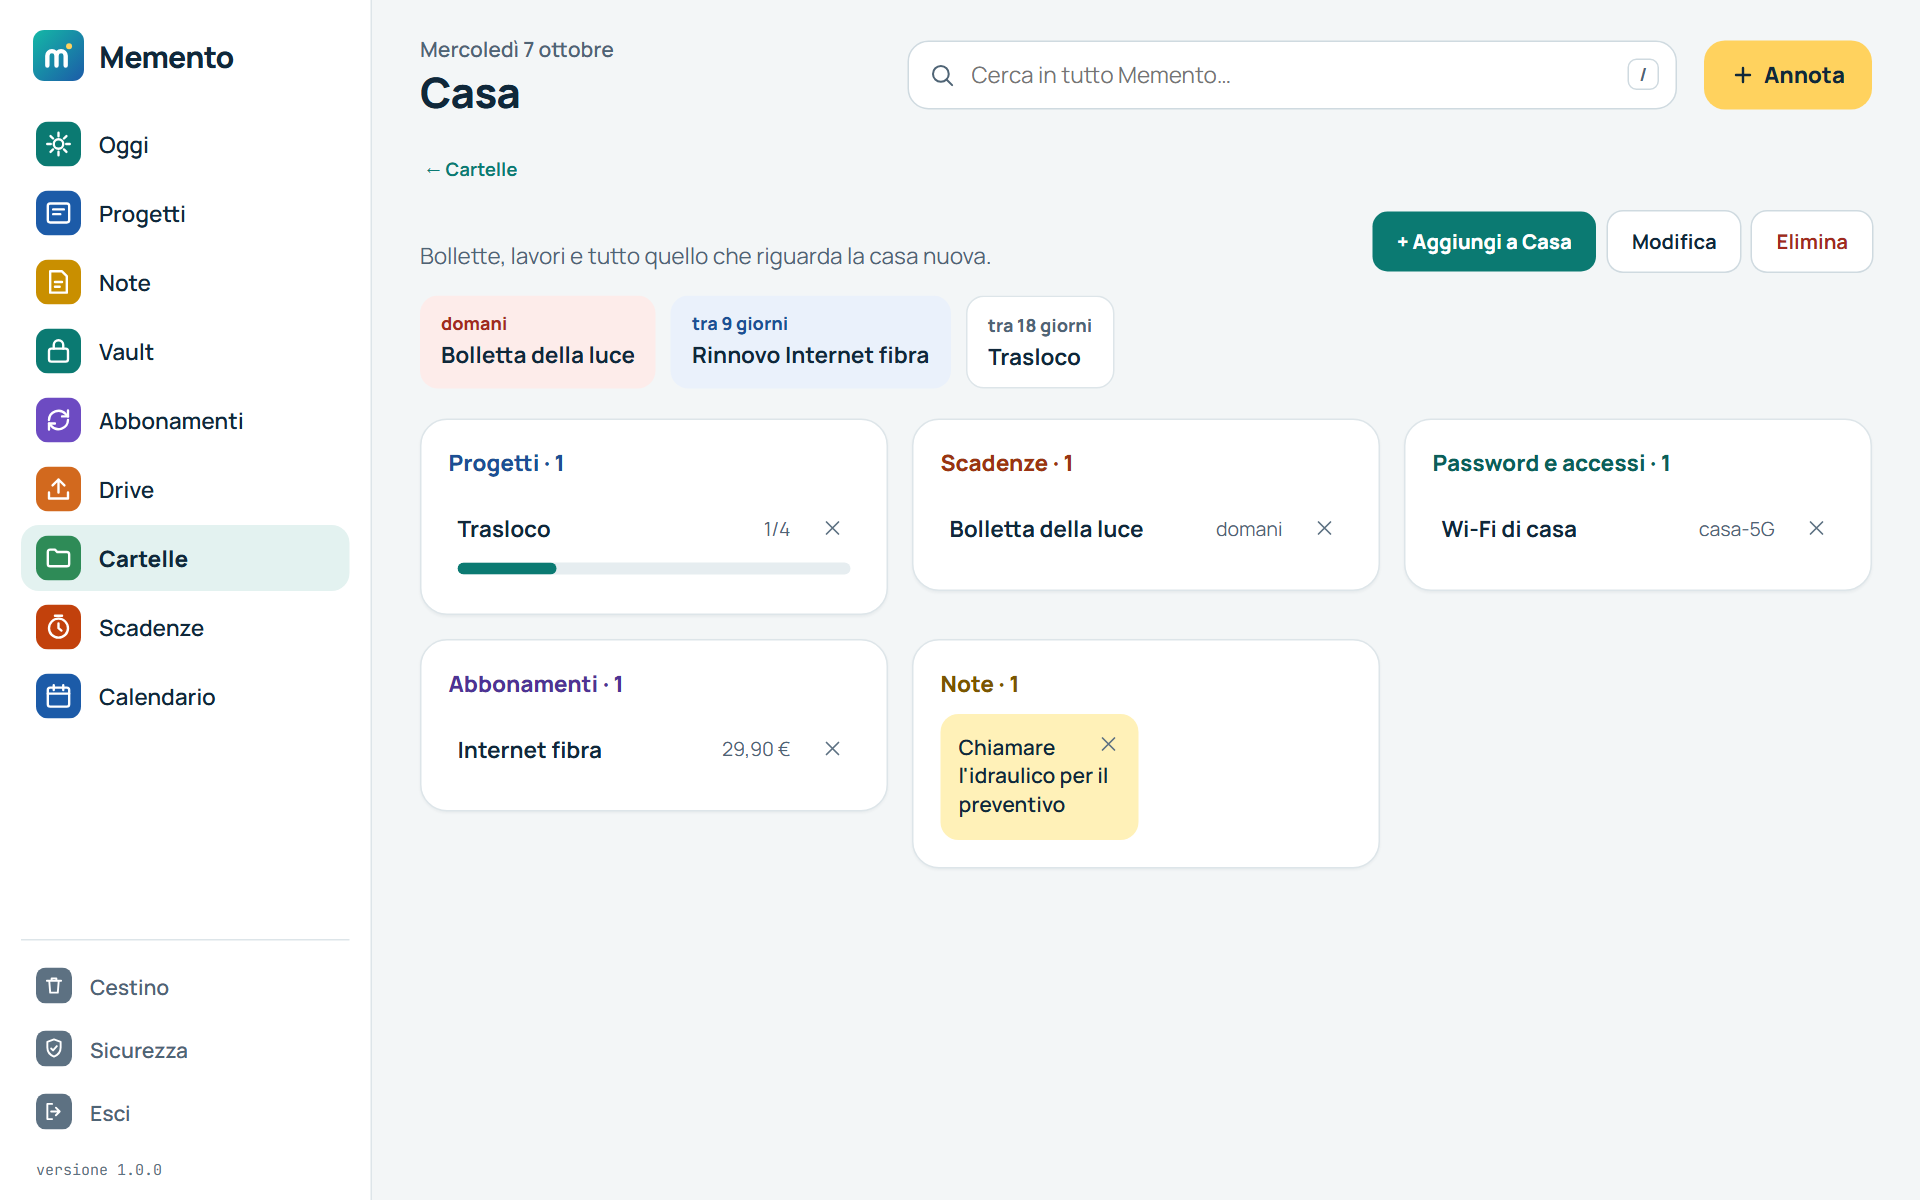
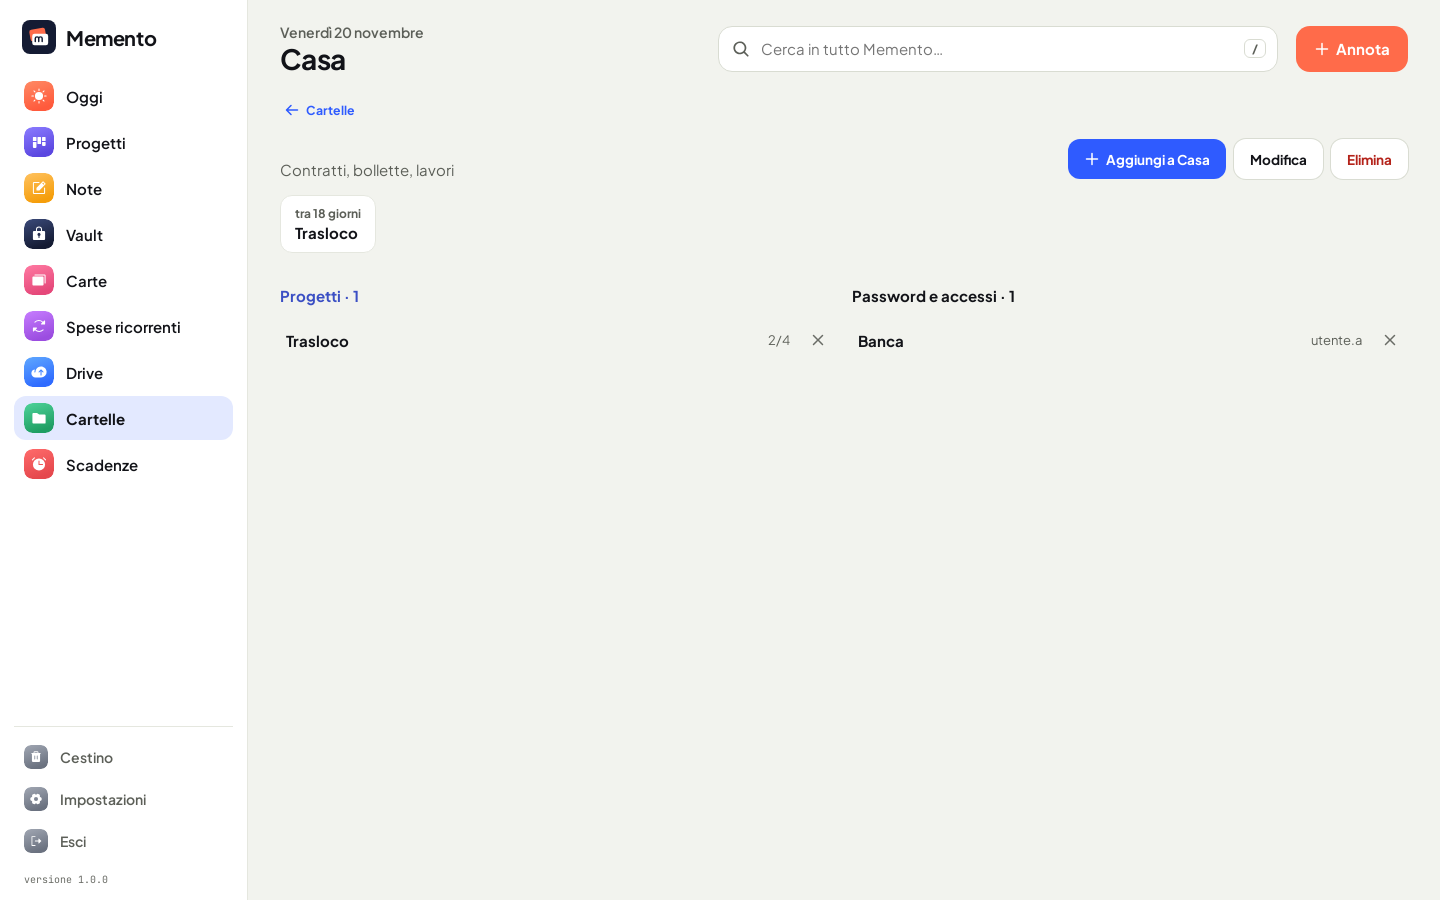
README e screenshot aggiornati; in Oggi le rate dei finanziamenti
- README: due modi d'uso (server Docker e app Android), nuove sezioni
  (Carte, Spese ricorrenti con finanziamenti, Vault a quattro tipi,
  Impostazioni), app Android con aggiornamenti, backup sul server di
  casa e file cifrato; Sicurezza diventa Impostazioni.
- Screenshot rifatti con dati di esempio generici (telefono chiaro e
  scuro, computer); carte senza loghi di negozi.
- Oggi e cartelle mostrano "Rata Auto" invece di "Rinnovo Auto" per un
  finanziamento.

diff --git a/public/app.js b/public/app.js
@@ -1494,7 +1494,7 @@
       if (days === null) return;
       const amount = a.amount ? ` · ${fmtMoney(a.amount)}` : '';
       const iso = next instanceof Date ? `${next.getFullYear()}-${String(next.getMonth() + 1).padStart(2, '0')}-${String(next.getDate()).padStart(2, '0')}` : String(next);
-      deadlines.push({ kind: 'account', item: a, days, date: iso, title: tr('today_renewal_of', { name: a.service }), sub: tr('type_account') + amount });
+      deadlines.push({ kind: 'account', item: a, days, date: iso, title: tr(loanInfo(a) ? 'loan_installment_of' : 'today_renewal_of', { name: a.service }), sub: tr(loanInfo(a) ? 'account_type_loan' : 'type_account') + amount });
     });
     if (!isHidden('drive')) docs.filter((d) => d.expiry_date).forEach((d) => {
       const days = calendarDaysFromToday(d.expiry_date);
@@ -4141,7 +4141,7 @@
       mine.project.filter((p) => p.deadline && p.status !== 'fatto').forEach((p) => due.push({ days: calendarDaysFromToday(p.deadline), title: p.title, open: () => render('projects', { only: p.id, fromDossier: d.id }) }));
       mine.account.forEach((a) => {
         const next = nextChargeDate(a) || (!loanInfo(a) && a.renewal_date);
-        if (next) due.push({ days: calendarDaysFromToday(next), title: tr('today_renewal_of', { name: a.service }), open: () => render('accounts', { only: a.id, fromDossier: d.id }) });
+        if (next) due.push({ days: calendarDaysFromToday(next), title: tr(loanInfo(a) ? 'loan_installment_of' : 'today_renewal_of', { name: a.service }), open: () => render('accounts', { only: a.id, fromDossier: d.id }) });
       });
       mine.document.filter((x) => x.expiry_date).forEach((x) => due.push({ days: calendarDaysFromToday(x.expiry_date), title: x.display_name || x.original_name, open: () => openDocumentPreview(x) }));
       const dueSorted = due.filter((x) => x.days !== null).sort((a, b) => a.days - b.days);

diff --git a/public/i18n.js b/public/i18n.js
@@ -434,6 +434,7 @@ window.MementoI18n = (() => {
       loan_residual: 'Da pagare',
       loan_end: 'Ultima rata',
       loan_done: 'Concluso',
+      loan_installment_of: 'Rata {name}',
       loan_row: 'Pagate {n}/{total}',
       loan_row_residual: 'restano {amount}',
       field_email: 'Email',
@@ -1009,6 +1010,7 @@ window.MementoI18n = (() => {
       loan_residual: 'Left to pay',
       loan_end: 'Last installment',
       loan_done: 'Paid off',
+      loan_installment_of: '{name} installment',
       loan_row: 'Paid {n}/{total}',
       loan_row_residual: '{amount} left',
       field_email: 'Email',

diff --git a/README.md b/README.md
@@ -1,48 +1,64 @@
 <p align="center"><img src="brand/logo-1024.png" alt="Memento" width="420"></p>
 
-Spazio personale self-hosted per idee, progetti, password, abbonamenti e documenti, con **cartelle** che li collegano tra loro. Gira interamente sul tuo computer o server, dentro Docker: nessun dato lascia la tua macchina.
+Spazio personale per idee, progetti, password, carte fedeltà, spese ricorrenti e documenti, con **cartelle** che li collegano tra loro. Si usa in due modi, anche insieme:
 
-Gratuito e open source (licenza MIT). Pagina del progetto: **[phloppy.it/memento](https://www.phloppy.it/memento)**.
+- **sul tuo server**, dentro Docker (computer di casa, NAS, CasaOS): nessun dato lascia la tua macchina;
+- con l'**app Android**, collegata al server oppure con i dati **solo sul telefono**, cifrati, senza bisogno di un server.
+
+Gratuito e open source (licenza MIT). APK nelle **[Release](https://github.com/katergaris/Memento/releases)**.
 
 ## Come si presenta
 
-**Oggi** — cosa scade, i progetti in corso con le spunte toccabili sul posto, le note recenti e le cartelle:
+**Sul telefono** — Oggi, il pannello con tutte le sezioni, le carte fedeltà e la pagina di una carta (numero nascosto finché non tocchi l'occhio):
+
+<p>
+  <img src="docs/screenshots/telefono-oggi.png" alt="Oggi sul telefono" width="200">
+  <img src="docs/screenshots/telefono-altro.png" alt="Tutte le sezioni" width="200">
+  <img src="docs/screenshots/telefono-carte.png" alt="Carte fedeltà e regalo" width="200">
+  <img src="docs/screenshots/telefono-carta.png" alt="La pagina di una carta" width="200">
+</p>
+
+Vault con account, appunti protetti, codici 2FA e carte di pagamento; spese ricorrenti con i finanziamenti (rate pagate e quota da pagare); "Annota al volo" con `#tag` e `@cartella`:
+
+<p>
+  <img src="docs/screenshots/telefono-vault.png" alt="Vault" width="200">
+  <img src="docs/screenshots/telefono-spese.png" alt="Spese ricorrenti" width="200">
+  <img src="docs/screenshots/telefono-annota.png" alt="Annota al volo" width="200">
+</p>
+
+Tema chiaro e scuro, automatico come il telefono:
+
+<p>
+  <img src="docs/screenshots/telefono-oggi-scuro.png" alt="Oggi con il tema scuro" width="200">
+  <img src="docs/screenshots/telefono-carte-scuro.png" alt="Carte con il tema scuro" width="200">
+</p>
+
+**Su computer** — Oggi, una cartella con tutto quello che riguarda un tema, il Vault e le spese ricorrenti:
 
 ![La schermata Oggi su computer](docs/screenshots/desktop-oggi.png)
 
-**Una cartella** — tutto quello che riguarda un tema, diviso per tipo, con le sue scadenze in cima:
-
 ![La pagina di una cartella](docs/screenshots/desktop-cartella.png)
 
-**Progetti** — stato, scadenza e avanzamento visibili senza aprirli:
+![Il Vault](docs/screenshots/desktop-vault.png)
 
-![L'elenco dei progetti](docs/screenshots/desktop-progetti.png)
-
-**Sul telefono** — la schermata Oggi, "Annota al volo" che si apre dove lo tocchi (con i suggerimenti per `#tag` e `@cartella`), tutte le sezioni a un tocco:
-
-<p>
-  <img src="docs/screenshots/telefono-oggi.png" alt="Oggi sul telefono" width="260">
-  <img src="docs/screenshots/telefono-annota.png" alt="Annota al volo sul telefono" width="260">
-  <img src="docs/screenshots/telefono-sezioni.png" alt="Tutte le sezioni sul telefono" width="260">
-</p>
+![Le spese ricorrenti](docs/screenshots/desktop-spese.png)
 
 <sub>Dati di esempio.</sub>
 
 ## Cosa contiene
 
-- **Oggi** — la schermata d'ingresso: tutto quello che scade (promemoria, progetti, rinnovi, documenti) scritto come "domani", "tra 12 giorni", i progetti in corso con le spunte toccabili sul posto, le note recenti e le cartelle
+- **Oggi** — tutto quello che scade (scadenze, progetti, addebiti, rate, documenti) scritto come "domani", "tra 12 giorni", con le spunte toccabili sul posto, i progetti in corso, le note recenti e le cartelle
 - **Note** — libere, con tag, `#hashtag` e checklist spuntabile
-- **Cattura veloce** — "Annota" è sempre a un tocco (in alto su computer, il "+" giallo su telefono); `@` collega a una cartella, `#` aggiunge un tag, il pulsante "…" trasforma la nota in promemoria/progetto al momento del salvataggio
-- **Progetti** — stato (da fare / in corso / fatto), checklist, scadenza, persone/contatti e budget; ogni progetto è una scheda con avanzamento e scadenza visibili senza aprirla
-- **Vault password** — voci cifrate (AES-256-GCM), con **import da CSV**
-- **Abbonamenti** — account digitali o abbonamenti cartacei/fisici, con campi propri per ciascuno e data di rinnovo
-- **Drive** — upload documenti, organizzati in cartelle, con nome personalizzato, anteprima (immagini e PDF) e scadenza opzionale
-- **Cartelle** — collegano insieme note, progetti, voci del vault, abbonamenti, documenti e scadenze sullo stesso tema; aprendo una cartella vedi tutto il suo contenuto diviso per tipo, con le sue scadenze in cima
-- **Scadenze e Calendario** — elenco piatto o vista mensile, con notifiche push opzionali (anche ad app chiusa) quando una scadenza arriva a termine
-- **Ricerca globale** — cerca in tutte le sezioni insieme
-- **Cestino** — eliminazione soft con possibilità di ripristino
-- **Backup** — esporta un file .zip con database e documenti caricati
-- **Italiano e inglese** — si sceglie al primo avvio, si cambia da Sicurezza
+- **Annota al volo** — sempre a un tocco ("Annota" su computer, il "+" su telefono); `@` collega a una cartella, `#` aggiunge un tag. Sul telefono, fuori da Oggi, il "+" crea una voce della sezione aperta (una carta, una voce del vault, una spesa…)
+- **Progetti** — stato (da fare / in corso / fatto), checklist, scadenza, persone/contatti e budget
+- **Vault** — quattro tipi di voce cifrata (AES-256-GCM): **Account** (utente, password, codice 2FA), **Appunti** (IBAN, PIN, combinazioni), **Codici** (2FA e codici di recupero), **Carte** di pagamento; generatore di password e **import da CSV**
+- **Carte** — tessere fedeltà e carte regalo come in un portafoglio: codice a barre o QR da mostrare alla cassa (con lo schermo al massimo), lettura con la fotocamera, foto della tessera, saldo e scadenza delle carte regalo, carte fissate in alto con la puntina, logo del negozio
+- **Spese ricorrenti** — abbonamenti digitali, spese fisiche e **finanziamenti**: totale mensile e prossimo addebito; per un finanziamento (numero di rate, rata, prima rata) rate pagate e mancanti, quota da pagare e ultima rata
+- **Drive** — documenti con nome personalizzato, anteprima (immagini e PDF) e scadenza opzionale
+- **Cartelle** — collegano note, progetti, voci del vault, spese, documenti e scadenze sullo stesso tema
+- **Scadenze e Calendario** — elenco o vista mensile, con notifiche (push dal server, locali nell'app)
+- **Ricerca globale**, **Cestino** con ripristino, **Backup**
+- **Impostazioni** — tema chiaro/scuro/automatico, sezioni visibili, tasti della barra in basso, verifica in due passaggi, impronta, lingua (italiano e inglese)
 
 ## Requisiti
 
@@ -97,7 +113,7 @@ docker compose up -d --build
 **Da terminale** (SSH o l'app "Terminale" di CasaOS): CasaOS è basato su Debian con Docker già installato, quindi vale la stessa procedura descritta in "Avvio rapido":
 
 ```bash
-git clone https://github.com/katergaris/MindKeep.git memento
+git clone https://github.com/katergaris/Memento.git memento
 cd memento
 ./setup.sh
 ```
@@ -131,26 +147,36 @@ Il conteggio riparte a ogni utilizzo: con `SESSION_DAYS=7`, se apri Memento alme
 
 ## Dal telefono
 
-L'interfaccia è pensata prima di tutto per il telefono: al posto della barra laterale compare una **barra in basso** con Oggi, Note, il "+" per annotare, Vault e "Altro" (tutte le altre sezioni, più "Esci"). La ricerca si apre dalla lente in alto. Il tasto "indietro" del telefono torna alla sezione precedente.
+L'interfaccia è pensata prima di tutto per il telefono: al posto della barra laterale compare una **barra in basso** con tre sezioni a scelta (Impostazioni → Barra in basso, oppure tieni premuto un tasto), il "+" al centro e "Altro" con tutte le altre sezioni. Fuori da Oggi il primo tasto riporta sempre a Oggi. La ricerca si apre dalla lente in alto; il tasto "indietro" del telefono torna alla sezione precedente.
 
 Puoi anche **aggiungerlo alla schermata home** e usarlo come un'app, senza barra del browser: dal telefono apri l'indirizzo di Memento e scegli "Aggiungi a schermata Home" (Safari) o "Installa app" / "Aggiungi a schermata Home" (Chrome). Serve che il telefono raggiunga il server: stessa rete di casa, oppure una VPN.
 
 ## App Android
 
-Nella cartella `app/` c'è l'app Android (Capacitor) con la stessa interfaccia. Al primo avvio si sceglie come usarla:
+L'APK si scarica dalle **[Release](https://github.com/katergaris/Memento/releases)** (Android 7 o successivo). All'apertura l'app controlla se c'è una versione nuova e propone di installarla.
 
-- **Sul telefono**: i dati stanno solo nel telefono, in un archivio cifrato (AES-GCM, chiave ricavata dalla password principale). Funziona senza rete e senza server. Da Sicurezza → Dati si esporta un file `.memento` cifrato con una password (contiene anche i documenti) e lo si reimporta su un altro telefono.
+Al primo avvio si sceglie come usarla:
+
+- **Sul telefono**: i dati stanno solo nel telefono, in un archivio cifrato (AES-GCM, chiave ricavata dalla password principale). Funziona senza rete e senza server. Sblocco con l'impronta, notifiche delle scadenze, passaggio di una voce del vault a un altro telefono con un QR.
 - **Collegata al server**: l'app usa il tuo server Memento, come il browser.
 
 Si può cambiare modalità quando si vuole: i dati di ciascuna restano dove sono.
 
-L'APK lo costruisce GitHub Actions (`.github/workflows/android.yml`) a ogni modifica di `public/` o `app/`, e lo allega alla pagina dell'esecuzione. Con un tag `app-vX.Y.Z` lo pubblica anche nelle Release. Per firmarlo sempre con la stessa chiave (necessario per aggiornare l'app senza disinstallarla) servono i segreti del repository `ANDROID_KEYSTORE_B64` (il file PKCS12 in base64) e `ANDROID_KEYSTORE_PASSWORD`.
+### Copie dei dati con l'app "Sul telefono"
 
-Build locale: `cd app && npm ci && npm run build:www && npx cap add android && npx cap sync android`, poi Android Studio o `./gradlew assembleDebug` dentro `app/android`.
+- **File cifrato**: Impostazioni → Dati → "Esporta file cifrato" crea un file `.memento` (documenti compresi), protetto da una password, da reimportare su un altro telefono.
+- **Backup sul server di casa**: nelle Impostazioni del server (dal browser) "Backup dell'app Android" → "Collega un telefono" mostra un QR; nell'app, Impostazioni → "Backup sul server" → "Leggi il QR del server". Da quel momento l'app salva sul server una copia **cifrata con la password principale** (il server non la può leggere) dopo ogni modifica e ogni volta che torni nell'app. La copia finisce anche nel backup normale del server. Su un telefono nuovo: stessa password principale, stesso collegamento, e i dati vengono ripristinati.
+- **Dal server all'app**: Impostazioni del server → "Esporta per l'app" crea un file `.memento` con i dati del server, da importare nell'app.
+
+### Compilare l'APK
+
+L'APK lo costruisce GitHub Actions (`.github/workflows/android.yml`) a ogni modifica di `public/` o `app/`; con un tag `app-vX.Y.Z` lo pubblica nelle Release. Per firmarlo sempre con la stessa chiave (necessario per aggiornare l'app senza disinstallarla) servono i segreti del repository `ANDROID_KEYSTORE_B64` (il file PKCS12 in base64) e `ANDROID_KEYSTORE_PASSWORD`. La sincronizzazione con Google Drive compare solo se la build ha l'ID client Google (variabile del repository `GOOGLE_WEB_CLIENT_ID`).
+
+Build locale: `cd app && npm ci && npm run build:www && npx cap add android && node scripts/patch-android.js && npx cap sync android`, poi Android Studio o `./gradlew assembleDebug` dentro `app/android`.
 
 ## Verifica in due passaggi (Google Authenticator)
 
-Facoltativa, si attiva da **Sicurezza**. Una volta attiva, per entrare servono la password *e* un codice a 6 cifre generato dal telefono.
+Facoltativa, si attiva da **Impostazioni**. Una volta attiva, per entrare servono la password *e* un codice a 6 cifre generato dal telefono.
 
 1. Premi "Attiva con QR": Memento mostra un codice QR.
 2. Apri **Google Authenticator** (vanno bene anche Aegis, 1Password, Authy, Bitwarden: è lo standard TOTP, non un meccanismo proprietario di Google) e inquadralo. Se la fotocamera non collabora, nell'app scegli "Inserisci chiave di configurazione" e digita il segreto scritto sotto al QR.
@@ -168,16 +194,16 @@ docker compose exec memento node server/disable-2fa.js
 
 ## Impronta digitale / Face ID per il vault
 
-Facoltativa, si attiva da **Sicurezza** con "Aggiungi impronta su questo dispositivo". Una volta registrata almeno un'impronta per l'account, **rivelare una password del vault** (l'icona a occhio) chiede il tocco (impronta, Face ID o Windows Hello) invece di bastare la sola sessione aperta — utile soprattutto da telefono, dove la sessione resta spesso aperta a lungo.
+Facoltativa, si attiva da **Impostazioni** con "Aggiungi impronta su questo dispositivo". Una volta registrata almeno un'impronta per l'account, **rivelare una password del vault** (l'icona a occhio) chiede il tocco (impronta, Face ID o Windows Hello) invece di bastare la sola sessione aperta — utile soprattutto da telefono, dove la sessione resta spesso aperta a lungo.
 
 - È per dispositivo: registrala separatamente su ogni telefono/computer da cui vuoi il tocco per rivelare le password. Se non la registri su un dispositivo, lì il reveal continua a funzionare come prima (nessuna impronta = nessun blocco).
 - Usa WebAuthn (lo standard delle passkey): la chiave privata resta nel dispositivo, sul server viene salvata solo quella pubblica.
 - Richiede **HTTPS** (va bene anche `localhost` in sviluppo): i browser non espongono l'impronta su un semplice `http://`, incluso l'accesso via IP della rete locale senza certificato.
-- Per rimuoverla da **Sicurezza** serve la password dell'account, come per disattivare la verifica in due passaggi.
+- Per rimuoverla da **Impostazioni** serve la password dell'account, come per disattivare la verifica in due passaggi.
 
 ## Backup
 
-Da **Sicurezza**, "Esporta backup" scarica uno `.zip` con il database e tutti i documenti del Drive. Conservalo, insieme a una copia del file `.env`, in un posto sicuro e separato dal server.
+Da **Impostazioni**, "Esporta backup" scarica uno `.zip` con il database e tutti i documenti del Drive. Conservalo, insieme a una copia del file `.env`, in un posto sicuro e separato dal server.
 
 ## Import CSV nel vault
 
@@ -247,6 +273,7 @@ memento/
 │   ├── disable-2fa.js            # disattiva il 2FA da riga di comando (telefono perso)
 │   ├── session-store.js           # sessioni salvate su SQLite (sopravvivono ai riavvii)
 │   └── routes/                  # API REST per ogni sezione
+├── app/                          # app Android (Capacitor): modalità "Sul telefono" e collegata
 └── public/                       # frontend (HTML/CSS/JS, nessuna build richiesta)
     ├── manifest.webmanifest   # aggiunta alla schermata home del telefono
     └── icon-*.png              # icone dell'app
